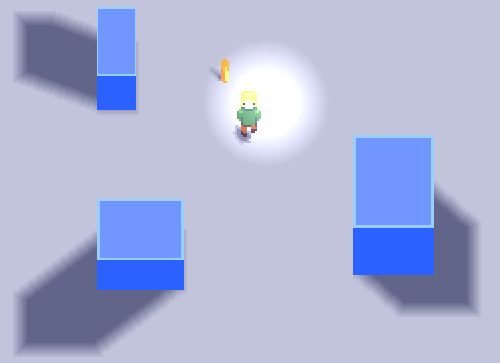
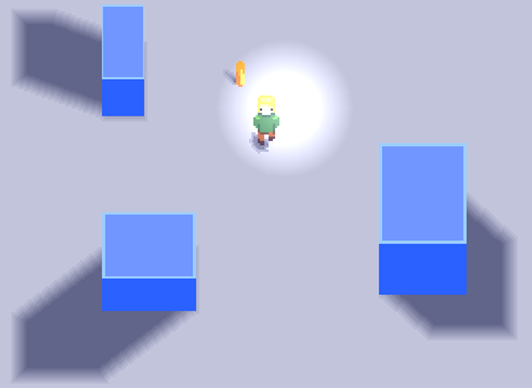
pic fix 2

diff --git a/index.htm b/index.htm
@@ -22,10 +22,10 @@ w\:* {behavior:url(#default#VML);}
  <o:DocumentProperties>
   <o:Author>Gurpreet Singh</o:Author>
   <o:LastAuthor>Gurpreet Singh</o:LastAuthor>
-  <o:Revision>147</o:Revision>
-  <o:TotalTime>180</o:TotalTime>
+  <o:Revision>148</o:Revision>
+  <o:TotalTime>182</o:TotalTime>
   <o:Created>2018-03-31T12:07:00Z</o:Created>
-  <o:LastSaved>2018-04-06T12:54:00Z</o:LastSaved>
+  <o:LastSaved>2018-04-06T12:56:00Z</o:LastSaved>
   <o:Pages>4</o:Pages>
   <o:Words>766</o:Words>
   <o:Characters>4371</o:Characters>
@@ -1256,11 +1256,11 @@ are invisible; the blue blocks you see are separate objects that spawn them.</i>
  </v:formulas>
  <v:path o:extrusionok="f" gradientshapeok="t" o:connecttype="rect"/>
  <o:lock v:ext="edit" aspectratio="t"/>
-</v:shapetype><v:shape id="Picture_x0020_2" o:spid="_x0000_i1034" type="#_x0000_t75"
- style='width:375pt;height:272.25pt;visibility:visible;mso-wrap-style:square'>
+</v:shapetype><v:shape id="Picture_x0020_1" o:spid="_x0000_i1034" type="#_x0000_t75"
+ style='width:399pt;height:291pt;visibility:visible;mso-wrap-style:square'>
  <v:imagedata src="index_files/image001.png" o:title=""/>
-</v:shape><![endif]--><![if !vml]><img width=500 height=363
-src="index_files/image001.png" v:shapes="Picture_x0020_2"><![endif]></span></p>
+</v:shape><![endif]--><![if !vml]><img width=532 height=388
+src="index_files/image001.png" v:shapes="Picture_x0020_1"><![endif]></span></p>
 
 <div style='margin-bottom:10.0pt'>
 
